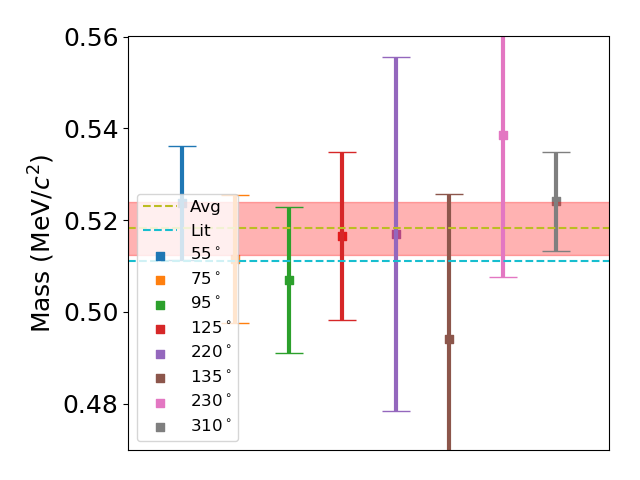
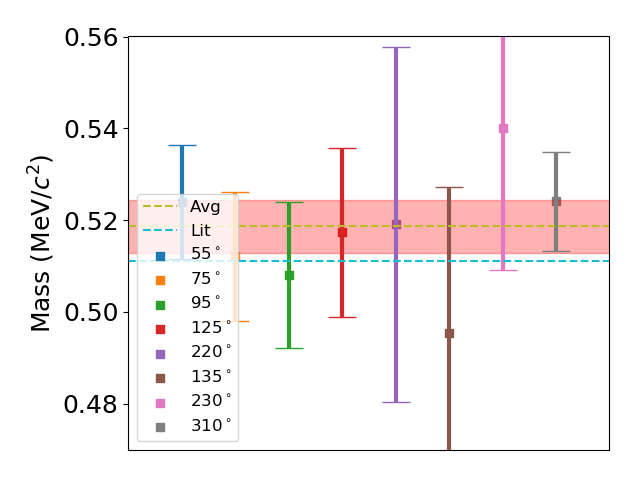
modified nishina and plots

diff --git a/scripts/nishina.py b/scripts/nishina.py
@@ -10,18 +10,18 @@ from scipy.optimize import curve_fit
 from scipy.interpolate import interp1d 
 from scipy import integrate
 
-def thomson(theta, a):
-    theta = theta*np.pi/180 - np.pi
+def thomson(theta, a,b):
+    angle = theta*np.pi/180 - b
     r0 = con.physical_constants['classical electron radius'][0]
     delta_omega = 1 # we will fit for it
-    return (1/2)*r0**2*(1 + np.cos(theta)**2)*a
+    return (1/2)*r0**2*(1 + np.cos(angle)**2)*a
 
-def nishina(theta, a):
-    thom = thomson(theta, a)
-    theta = theta*np.pi/180 - np.pi
+def nishina(theta, a,b):
+    thom = thomson(theta, a,b)
+    angle = theta*np.pi/180 - b
     Ei = 661.657e3*con.e
     alpha = Ei/(con.m_e*con.c**2)
-    k_n = (1+(alpha**2*(1-np.cos(theta))**2)/((1+np.cos(theta)**2)*(1+alpha*(1-np.cos(theta)))))/(1+alpha*(1-np.cos(theta)))**2
+    k_n = (1+(alpha**2*(1-np.cos(angle))**2)/((1+np.cos(angle)**2)*(1+alpha*(1-np.cos(angle)))))/(1+alpha*(1-np.cos(angle)))**2
     value = a*k_n*thom
     return value
 
@@ -41,18 +41,18 @@ if __name__ == '__main__':
         a_0 = un.ufloat(res[0][2], res[1][2])
         sigma = un.ufloat(res[0][1],res[1][1])
         total_time = un.ufloat(30,2)*30
-        print(res[0][0])
         rate = (a_0*sigma*np.sqrt(2*np.pi)/total_time)
         rates.append(rate.nominal_value)
         rates_uncertainties.append(rate.std_dev)
     
     x = np.linspace(0,360,1000)
-    res1 = curve_fit(nishina, angles, rates, p0 = [1e30], sigma = rates_uncertainties)
-    res2 = curve_fit(thomson, angles, rates, p0 = [1e30], sigma = rates_uncertainties)
+    res1 = curve_fit(nishina, angles, rates, p0 = [1e15, np.pi], sigma = rates_uncertainties)
+    res2 = curve_fit(thomson, angles, rates, p0 = [1e30, np.pi], sigma = rates_uncertainties)
+    print(res1[0],res2[0])
     
     plt.figure()
-    plt.plot(x, nishina(x, res1[0][0]), label = 'Klein-Nishina')  
-    plt.plot(x, thomson(x, res2[0][0]), label = 'Thomson')  
+    plt.plot(x, nishina(x, *res1[0]), label = 'Klein-Nishina')  
+    plt.plot(x, thomson(x, *res2[0]), label = 'Thomson')  
     plt.scatter(angles,  rates, label = 'data')
     plt.errorbar(angles,  rates, yerr =  rates_uncertainties, xerr = 1.5*np.ones(len(angles)), ls = 'none', color = 'b')
     plt.xlim(0, 360)

diff --git a/scripts/peak_finder.py b/scripts/peak_finder.py
@@ -75,9 +75,9 @@ def peak_finder(sup_path, bins, plot = True):
         print(chi_sqd)
         print(popt[0], unc[0])
         plt.savefig(path.join(sup_path + 'gaussian.png'))
-        plt.show()
+        # plt.show()
         plt.close()
-        print(popt, unc)
+        # print(popt, unc)
     return popt, unc
     
     
